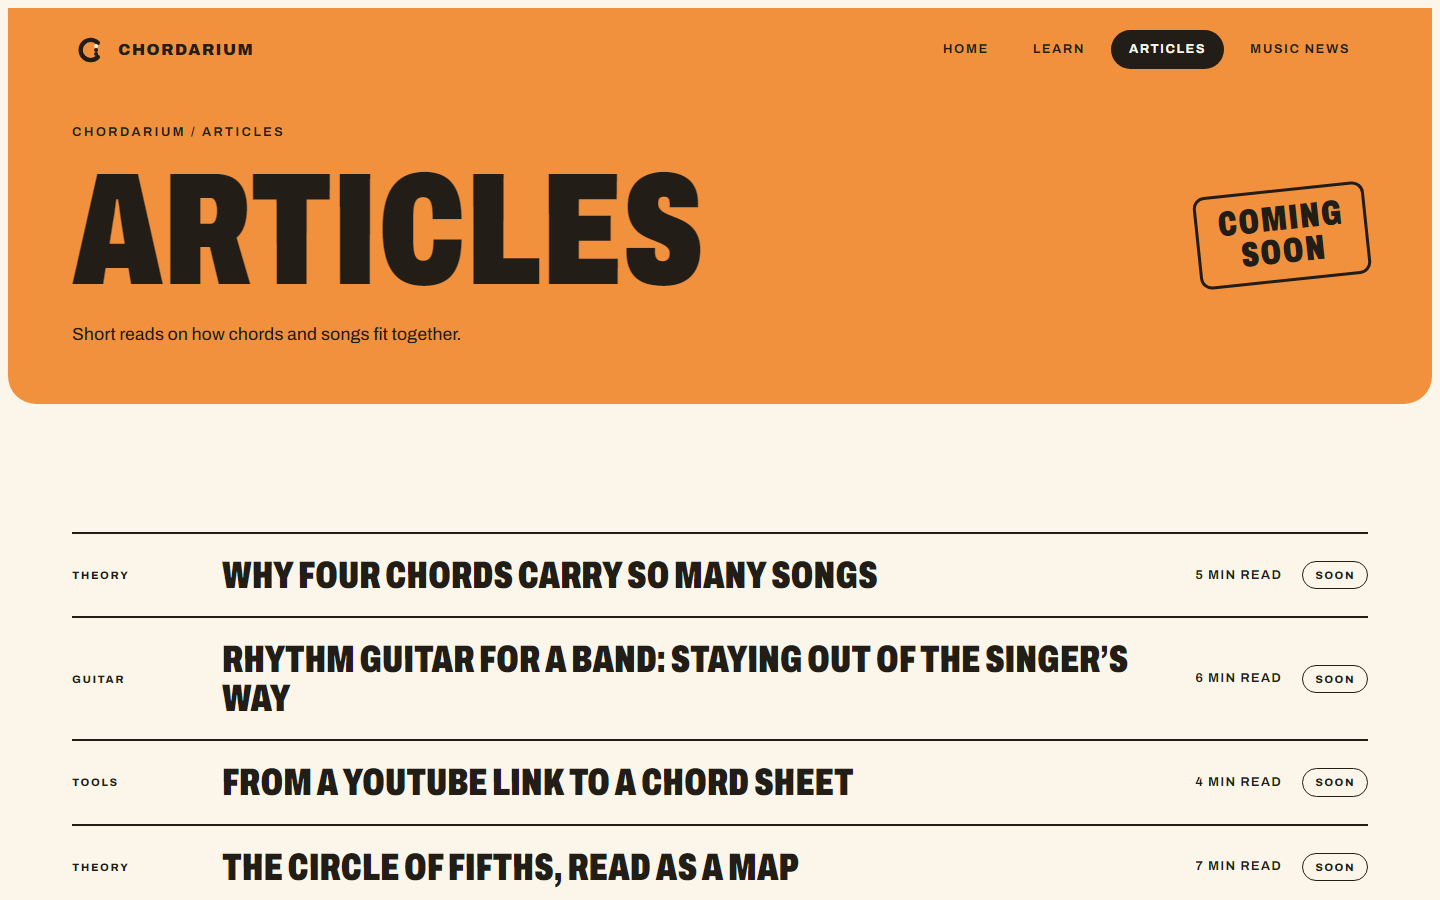
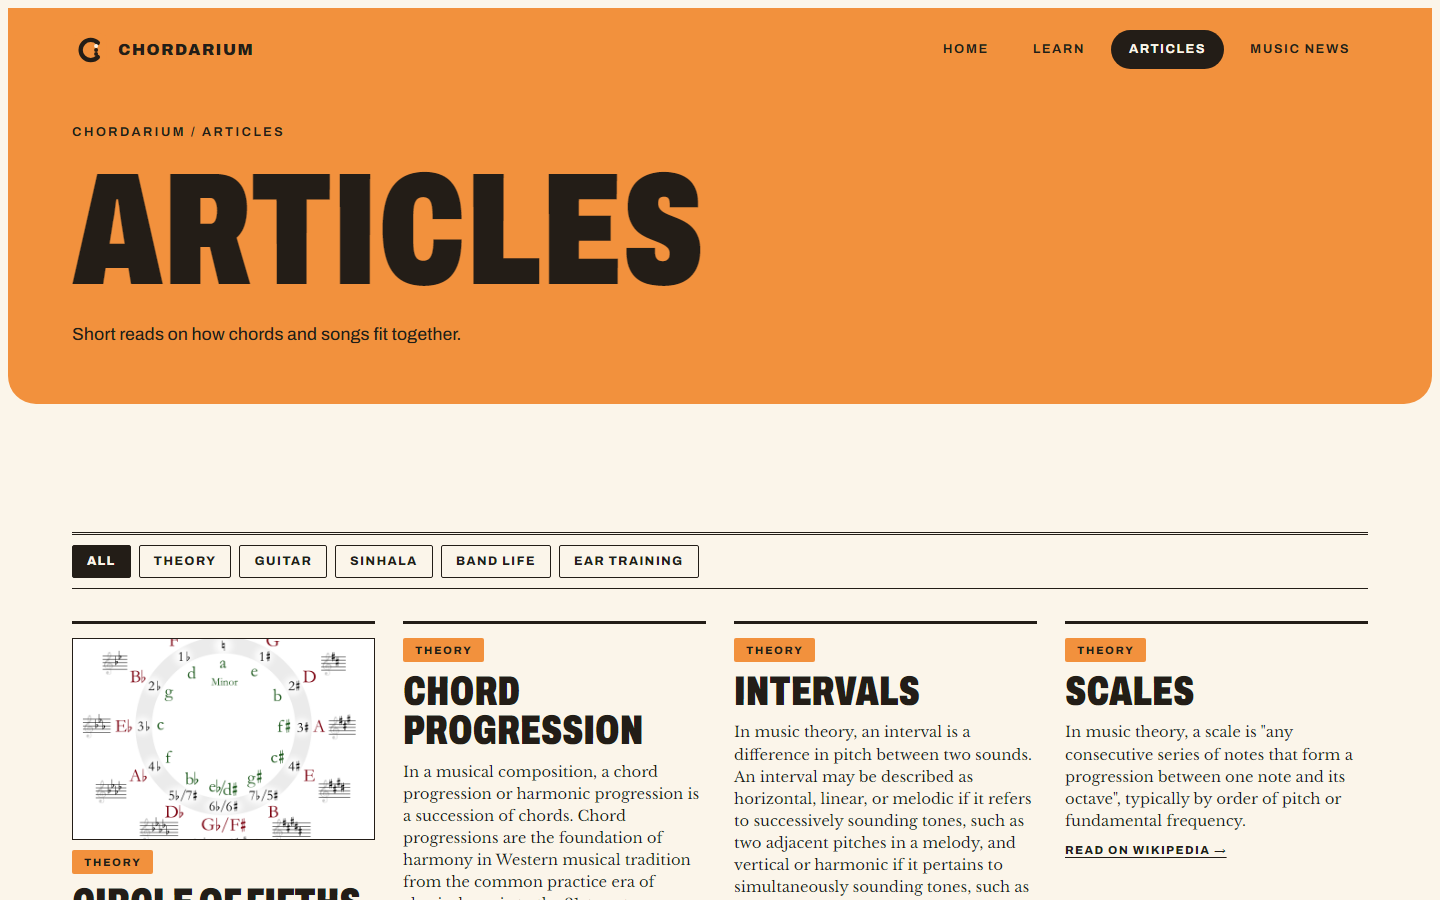
Articles from Wikipedia: summaries, images and links via /api/articles
- /api/articles pulls each topic's summary, image and link from the Wikipedia REST API (6 hour cache)
- Articles page: card grid, topic filters, Wikipedia credit (CC BY-SA 4.0)
- Articles marked live on the home page
- README and screenshots updated
- Drop assistant entries from .gitignore

diff --git a/src/pages/Articles.tsx b/src/pages/Articles.tsx
@@ -1,12 +1,13 @@
-import PageShell from '../components/PageShell'
 import { useEffect, useState } from 'react'
+import PageShell from '../components/PageShell'
 import { ARTICLES, TOPICS, type Article } from '../data/articles'
 
 export default function Articles() {
   const [articles, setArticles] = useState<Article[]>(ARTICLES)
   const [topics, setTopics] = useState<string[]>(TOPICS)
+  const [tag, setTag] = useState<string>('ALL')
 
-  // Load from /api/articles; the built-in list stays on screen if the request fails.
+  // Load summaries from /api/articles; the plain topic list stays on screen if the request fails.
   useEffect(() => {
     const ctl = new AbortController()
     fetch('/api/articles', { signal: ctl.signal })
@@ -19,23 +20,41 @@ export default function Articles() {
     return () => ctl.abort()
   }, [])
 
+  const shown = tag === 'ALL' ? articles : articles.filter((a) => a.tag === tag)
+
   return (
-    <PageShell page="articles" label="ARTICLES" title="ARTICLES" desc="Short reads on how chords and songs fit together.">
+    <PageShell page="articles" label="ARTICLES" title="ARTICLES" stamp={false} desc="Short reads on how chords and songs fit together.">
       <section className="section">
-        <ul className="articles">
-          {articles.map((a) => (
-            <li key={a.id} className="article" data-reveal>
+        <div className="sectionbar" role="group" aria-label="Filter by topic">
+          {['ALL', ...topics.map((t) => t.toUpperCase())].map((t) => (
+            <button key={t} type="button" className="tab" aria-pressed={tag === t} onClick={() => setTag(t)}>
+              {t}
+            </button>
+          ))}
+        </div>
+        <ul className="art-grid">
+          {shown.map((a) => (
+            <li key={a.id} className="art-card" data-reveal>
+              {a.image && (
+                <div className="art-pic">
+                  <img src={a.image} alt="" loading="lazy" referrerPolicy="no-referrer" />
+                </div>
+              )}
               <span className="story-chip">{a.tag}</span>
-              <h2>{a.title}</h2>
-              <span className="article-time">{a.time}</span>
-              <span className="door-pill">SOON</span>
+              <h2 className="display art-title">{a.title}</h2>
+              {a.summary && <p className="art-sum">{a.summary}</p>}
+              {a.url && (
+                <a className="art-link" href={a.url} target="_blank" rel="noopener noreferrer">
+                  READ ON WIKIPEDIA →
+                </a>
+              )}
             </li>
           ))}
         </ul>
-        <ul className="tags topics" data-reveal>
-          {topics.map((t) => <li key={t}>{t}</li>)}
-        </ul>
-        <p className="footnote">Working titles. They may change before publishing.</p>
+        <p className="footnote">
+          Summaries and images from <a href="https://en.wikipedia.org" target="_blank" rel="noopener noreferrer">Wikipedia</a>, available under{' '}
+          <a href="https://creativecommons.org/licenses/by-sa/4.0/" target="_blank" rel="noopener noreferrer">CC BY-SA 4.0</a>. Each card links to the full article and its authors.
+        </p>
       </section>
     </PageShell>
   )

diff --git a/src/data/articles.test.ts b/src/data/articles.test.ts
@@ -1,28 +1,61 @@
 import { ARTICLES, queryArticles, slugify } from './articles'
+import { fetchArticles, trimSummary, _resetWikiCache } from '../lib/wikiServer'
 
 describe('articles', () => {
-  it('gives every article a unique url-safe id', () => {
+  it('gives every article a unique url-safe id and a wiki page', () => {
     const ids = ARTICLES.map((a) => a.id)
     expect(new Set(ids).size).toBe(ids.length)
     ids.forEach((id) => expect(id).toMatch(/^[a-z0-9]+(-[a-z0-9]+)*$/))
+    ARTICLES.forEach((a) => expect(a.wiki).toMatch(/\S/))
   })
 
   it('slugifies titles', () => {
-    expect(slugify('Rhythm guitar: staying out of the singer’s way')).toBe('rhythm-guitar-staying-out-of-the-singers-way')
+    expect(slugify('Rhythm guitar: the singer’s way')).toBe('rhythm-guitar-the-singers-way')
   })
 
-  it('filters by tag, ignoring case', () => {
-    const out = queryArticles(ARTICLES, { tag: 'theory' })
-    expect(out.length).toBe(2)
-    expect(out.every((a) => a.tag === 'THEORY')).toBe(true)
-  })
-
-  it('searches titles', () => {
-    expect(queryArticles(ARTICLES, { q: 'youtube' }).map((a) => a.tag)).toEqual(['TOOLS'])
-  })
-
-  it('returns everything with no filters and nothing for an unknown tag', () => {
-    expect(queryArticles(ARTICLES)).toHaveLength(ARTICLES.length)
+  it('filters by tag, ignoring case, and searches titles and summaries', () => {
+    expect(queryArticles(ARTICLES, { tag: 'theory' }).every((a) => a.tag === 'THEORY')).toBe(true)
     expect(queryArticles(ARTICLES, { tag: 'nope' })).toEqual([])
+    expect(queryArticles([{ ...ARTICLES[0], summary: 'twelve pitch classes' }], { q: 'pitch' })).toHaveLength(1)
+    expect(queryArticles(ARTICLES)).toHaveLength(ARTICLES.length)
+  })
+})
+
+describe('wikiServer', () => {
+  afterEach(() => {
+    vi.unstubAllGlobals()
+    _resetWikiCache()
+  })
+
+  it('trims long summaries at a sentence', () => {
+    const long = 'First sentence is here. Then ' + 'x'.repeat(400)
+    expect(trimSummary(long, 60)).toBe('First sentence is here.')
+    expect(trimSummary('short')).toBe('short')
+  })
+
+  it('adds summary, image and link from Wikipedia', async () => {
+    vi.stubGlobal('fetch', async () => ({
+      ok: true,
+      json: async () => ({
+        type: 'standard',
+        extract: 'A summary.',
+        thumbnail: { source: 'https://img/x.jpg' },
+        content_urls: { desktop: { page: 'https://en.wikipedia.org/wiki/X' } },
+      }),
+    }))
+    const out = await fetchArticles()
+    expect(out).toHaveLength(ARTICLES.length)
+    expect(out[0]).toMatchObject({ summary: 'A summary.', image: 'https://img/x.jpg', url: 'https://en.wikipedia.org/wiki/X' })
+  })
+
+  it('keeps the plain title when Wikipedia fails or returns a disambiguation page', async () => {
+    let n = 0
+    vi.stubGlobal('fetch', async () => {
+      if (n++ % 2) throw new Error('down')
+      return { ok: true, json: async () => ({ type: 'disambiguation', extract: 'may refer to' }) }
+    })
+    const out = await fetchArticles()
+    expect(out.map((a) => a.title)).toEqual(ARTICLES.map((a) => a.title))
+    expect(out.every((a) => !a.summary)).toBe(true)
   })
 })

diff --git a/src/data/articles.ts b/src/data/articles.ts
@@ -2,32 +2,44 @@ export interface Article {
   id: string
   tag: string
   title: string
-  time: string
+  /** Wikipedia page the summary is pulled from. */
+  wiki: string
+  /** Filled in by the API from Wikipedia. */
+  summary?: string
+  image?: string
+  url?: string
 }
 
 export const slugify = (s: string) =>
   s.toLowerCase().replace(/[’']/g, '').replace(/[^a-z0-9]+/g, '-').replace(/^-|-$/g, '')
 
-const draft = (tag: string, title: string, time: string): Article => ({ id: slugify(title), tag, title, time })
+const topic = (tag: string, title: string, wiki: string): Article => ({ id: slugify(title), tag, title, wiki })
 
+// Each entry maps to a Wikipedia page. Titles show until the live summary loads.
 export const ARTICLES: Article[] = [
-  draft('THEORY', 'Why four chords carry so many songs', '5 MIN READ'),
-  draft('GUITAR', 'Rhythm guitar for a band: staying out of the singer’s way', '6 MIN READ'),
-  draft('TOOLS', 'From a YouTube link to a chord sheet', '4 MIN READ'),
-  draft('THEORY', 'The circle of fifths, read as a map', '7 MIN READ'),
-  draft('SINHALA', 'Chords in Sinhala songs: what repeats', '6 MIN READ'),
+  topic('THEORY', 'Circle of fifths', 'Circle_of_fifths'),
+  topic('THEORY', 'Chord progression', 'Chord_progression'),
+  topic('THEORY', 'Intervals', 'Interval_(music)'),
+  topic('THEORY', 'Scales', 'Scale_(music)'),
+  topic('GUITAR', 'Rhythm guitar', 'Rhythm_guitar'),
+  topic('GUITAR', 'Guitar chords', 'Guitar_chord'),
+  topic('SINHALA', 'Music of Sri Lanka', 'Music_of_Sri_Lanka'),
+  topic('BAND LIFE', 'Set lists', 'Set_list'),
+  topic('EAR TRAINING', 'Ear training', 'Ear_training'),
 ]
 
-export const TOPICS = ['Theory', 'Guitar', 'Tools', 'Sinhala songs', 'Band life', 'Ear training']
+export const TOPICS = ['Theory', 'Guitar', 'Sinhala', 'Band life', 'Ear training']
 
 export interface ArticleQuery {
   tag?: string
   q?: string
 }
 
-/** Filters by tag (case-insensitive) and by a text search over the title. */
+/** Filters by tag (case-insensitive) and by a text search over title and summary. */
 export function queryArticles(articles: Article[], { tag, q }: ArticleQuery = {}): Article[] {
   const t = tag?.trim().toUpperCase()
   const needle = q?.trim().toLowerCase()
-  return articles.filter((a) => (!t || a.tag === t) && (!needle || a.title.toLowerCase().includes(needle)))
+  return articles.filter(
+    (a) => (!t || a.tag === t) && (!needle || `${a.title} ${a.summary ?? ''}`.toLowerCase().includes(needle)),
+  )
 }

diff --git a/src/lib/wikiServer.ts b/src/lib/wikiServer.ts
@@ -1,0 +1,58 @@
+import { ARTICLES, type Article } from '../data/articles.js'
+
+const SUMMARY = 'https://en.wikipedia.org/api/rest_v1/page/summary/'
+const MAX_SUMMARY = 320
+const TTL_MS = 6 * 60 * 60 * 1000
+
+interface WikiSummary {
+  type?: string
+  extract?: string
+  thumbnail?: { source?: string }
+  content_urls?: { desktop?: { page?: string } }
+}
+
+/** Trims to a whole sentence under the limit; "i.e." and "e.g." do not count as sentence ends. */
+export function trimSummary(text: string, max = MAX_SUMMARY): string {
+  const t = text.replace(/\s+/g, ' ').trim()
+  if (t.length <= max) return t
+  let end = -1
+  for (const m of t.matchAll(/[.!?](?=\s+[A-Z])/g)) {
+    if (m.index !== undefined && m.index < max) end = m.index
+  }
+  return end > max * 0.3 ? t.slice(0, end + 1) : `${t.slice(0, max).replace(/\s+\S*$/, '')}…`
+}
+
+async function enrich(a: Article): Promise<Article> {
+  try {
+    const res = await fetch(SUMMARY + encodeURIComponent(a.wiki), {
+      headers: { 'user-agent': 'ChordariumHub/1.0 (https://chordarium.lapalu.me)', accept: 'application/json' },
+      signal: AbortSignal.timeout(6000),
+    })
+    if (!res.ok) return a
+    const d = (await res.json()) as WikiSummary
+    if (d.type !== 'standard' || !d.extract) return a
+    return {
+      ...a,
+      summary: trimSummary(d.extract),
+      image: d.thumbnail?.source,
+      url: d.content_urls?.desktop?.page ?? `https://en.wikipedia.org/wiki/${a.wiki}`,
+    }
+  } catch {
+    return a
+  }
+}
+
+let cache: { at: number; articles: Article[] } | undefined
+
+/** Every article with its Wikipedia summary, image and link. Failed lookups keep the plain title. */
+export async function fetchArticles(): Promise<Article[]> {
+  if (cache && Date.now() - cache.at < TTL_MS) return cache.articles
+  const articles = await Promise.all(ARTICLES.map(enrich))
+  // Only cache a complete run, so a Wikipedia blip does not stick for hours.
+  if (articles.every((a) => a.summary)) cache = { at: Date.now(), articles }
+  return articles
+}
+
+export const _resetWikiCache = () => {
+  cache = undefined
+}

diff --git a/api/articles.ts b/api/articles.ts
@@ -1,4 +1,5 @@
-import { ARTICLES, TOPICS, queryArticles } from '../src/data/articles.js'
+import { TOPICS, queryArticles } from '../src/data/articles.js'
+import { fetchArticles } from '../src/lib/wikiServer.js'
 
 interface Req {
   query?: { tag?: string | string[]; q?: string | string[] }
@@ -10,11 +11,12 @@ interface Res {
 
 const one = (v: string | string[] | undefined) => (Array.isArray(v) ? v[0] : v)
 
-// GET /api/articles            -> every article and the topic list
+// GET /api/articles            -> every article with its Wikipedia summary, image and link
 // GET /api/articles?tag=THEORY -> one tag
-// GET /api/articles?q=chords   -> title search
-export default function handler(req: Req, res: Res) {
-  const articles = queryArticles(ARTICLES, { tag: one(req.query?.tag), q: one(req.query?.q) })
-  res.setHeader('Cache-Control', 's-maxage=3600, stale-while-revalidate=86400')
-  res.status(200).json({ articles, topics: TOPICS })
+// GET /api/articles?q=chords   -> search titles and summaries
+export default async function handler(req: Req, res: Res) {
+  const all = await fetchArticles()
+  const articles = queryArticles(all, { tag: one(req.query?.tag), q: one(req.query?.q) })
+  res.setHeader('Cache-Control', 's-maxage=21600, stale-while-revalidate=86400')
+  res.status(200).json({ articles, topics: TOPICS, source: 'Wikipedia (CC BY-SA 4.0)' })
 }

diff --git a/src/styles/global.css b/src/styles/global.css
@@ -539,3 +539,15 @@ body { font-family: 'Archivo', system-ui, sans-serif; font-weight: 500; line-hei
   .wordmark { font-size: 14.5vw; }
   .ticker-item { font-size: 1.8rem; }
 }
+
+/* Articles: Wikipedia-backed cards */
+.art-grid { display: grid; grid-template-columns: repeat(auto-fill, minmax(280px, 1fr)); gap: 32px 28px; margin-top: 8px; }
+.art-card { display: grid; gap: 10px; align-content: start; border-top: 3px solid var(--ink); padding-top: 14px; }
+.art-pic { border: 1.5px solid var(--ink); aspect-ratio: 3 / 2; overflow: hidden; background: var(--sand); }
+.art-pic img { display: block; width: 100%; height: 100%; object-fit: cover; }
+.art-title { font-size: clamp(1.9rem, 3vw, 2.6rem); line-height: 0.95; }
+.art-sum { font-family: 'Libre Baskerville', Georgia, serif; font-size: 0.92rem; }
+.art-link { font-family: 'Archivo', sans-serif; font-weight: 800; font-size: 0.72rem; letter-spacing: 0.12em; text-decoration: underline; text-underline-offset: 3px; width: fit-content; }
+.art-link:hover { color: var(--amber); }
+.footnote a { text-decoration: underline; }
+@media (max-width: 640px) { .art-grid { grid-template-columns: 1fr; } }

diff --git a/vite.config.ts b/vite.config.ts
@@ -24,9 +24,10 @@ const devArticlesApi = (): Plugin => ({
   configureServer(server) {
     server.middlewares.use('/api/articles', async (req, res) => {
       try {
-        const { ARTICLES, TOPICS, queryArticles } = await server.ssrLoadModule('/src/data/articles.ts')
+        const { TOPICS, queryArticles } = await server.ssrLoadModule('/src/data/articles.ts')
+        const { fetchArticles } = await server.ssrLoadModule('/src/lib/wikiServer.ts')
         const params = new URL((req as { url?: string }).url ?? '', 'http://localhost').searchParams
-        const articles = queryArticles(ARTICLES, { tag: params.get('tag') ?? undefined, q: params.get('q') ?? undefined })
+        const articles = queryArticles(await fetchArticles(), { tag: params.get('tag') ?? undefined, q: params.get('q') ?? undefined })
         res.setHeader('content-type', 'application/json')
         res.end(JSON.stringify({ articles, topics: TOPICS }))
       } catch {

diff --git a/src/data/projects.ts b/src/data/projects.ts
@@ -58,7 +58,7 @@ export const PROJECTS: Project[] = [
 
 export const DOORS = [
   { n: '01', title: 'LEARN', desc: 'Notes, chords and rhythm, one small step at a time.', to: '/learn' },
-  { n: '02', title: 'ARTICLES', desc: 'Short reads on how chords and songs fit together.', to: '/articles' },
+  { n: '02', title: 'ARTICLES', desc: 'Short reads on how chords and songs fit together.', to: '/articles', live: true },
   { n: '03', title: 'MUSIC NEWS', desc: 'Headlines from the music world, country by country.', to: '/news', live: true },
 ]
 

diff --git a/README.md b/README.md
@@ -40,11 +40,13 @@ Headlines from the music world and from five countries, with images, search, sor
 
 ![Music News stories with images](docs/screenshots/news-stories.png)
 
-### Learn and Articles
+### Articles and Learn
 
-| Learn | Articles |
+![Articles from Wikipedia](docs/screenshots/articles-list.png)
+
+| Articles | Learn |
 |---|---|
-| ![Learn](docs/screenshots/learn.png) | ![Articles](docs/screenshots/articles.png) |
+| ![Articles](docs/screenshots/articles.png) | ![Learn](docs/screenshots/learn.png) |
 
 ### Mobile
 
@@ -59,8 +61,8 @@ The site is responsive down to small phones. The screenshots below are at 390 px
 - **Hero and dot fields**: three.js backdrops and a Tonnetz lattice where every triangle is a chord.
 - **Chordarium Ring**: a 3D ring of the twelve notes with chord chips, auto-play and Web Audio sound. It falls back to a flat SVG ring when WebGL is off.
 - **Music News**: `/api/news` is a serverless function that reads RSS feeds from Billboard, Stereogum, Pitchfork, The Guardian, NME, Rolling Stone and more, plus Google News searches for Sri Lanka, India, the UK, the USA and Japan. It shows only the last 7 days.
-- **Articles API**: `GET /api/articles` returns the article list and topics as JSON. Filter with `?tag=THEORY` or search titles with `?q=chords`. The Articles page loads from it and falls back to a built-in list.
-- **Learn** and **Articles**: sections in progress.
+- **Articles**: short reads on theory, guitar, Sinhala music, band life and ear training. `GET /api/articles` pulls each topic's summary, image and link from the Wikipedia REST API (cached for 6 hours). Filter with `?tag=THEORY` or search with `?q=chords`. The page falls back to the plain topic list if Wikipedia is unreachable.
+- **Learn**: in progress.
 - Smooth scrolling, grain texture, scroll reveals and reduced-motion support.
 
 ## Tech stack
@@ -118,6 +120,10 @@ Full licence texts are in each package's folder under `node_modules/` after `npm
 ### Fonts
 
 [Archivo](https://fonts.google.com/specimen/Archivo) and [Libre Baskerville](https://fonts.google.com/specimen/Libre+Baskerville) are loaded from Google Fonts and licensed under the SIL Open Font License 1.1.
+
+### Articles content
+
+Article summaries and images on the Articles page come from [Wikipedia](https://en.wikipedia.org) through its public REST API. They are **not** covered by the MIT licence. Wikipedia text is available under [CC BY-SA 4.0](https://creativecommons.org/licenses/by-sa/4.0/) and images carry their own licences (see each image's page on Wikimedia Commons). Every card links to the full article, which lists its authors.
 
 ### News content
 
